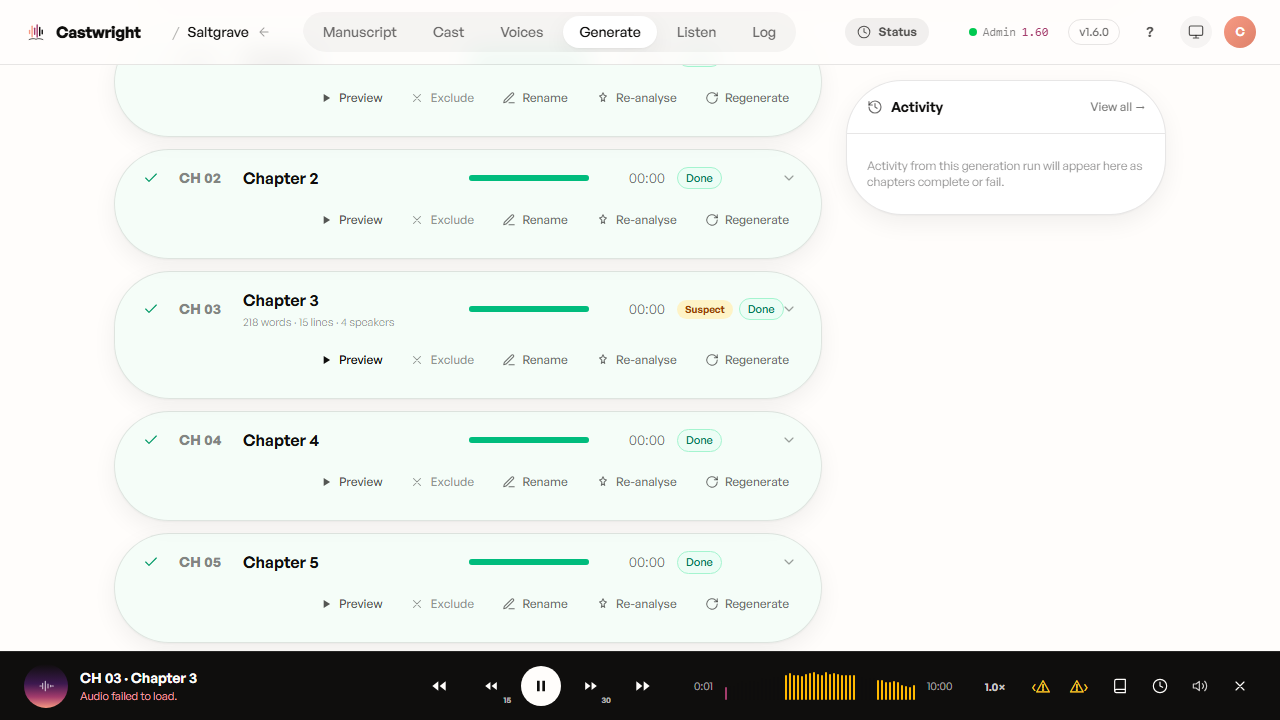
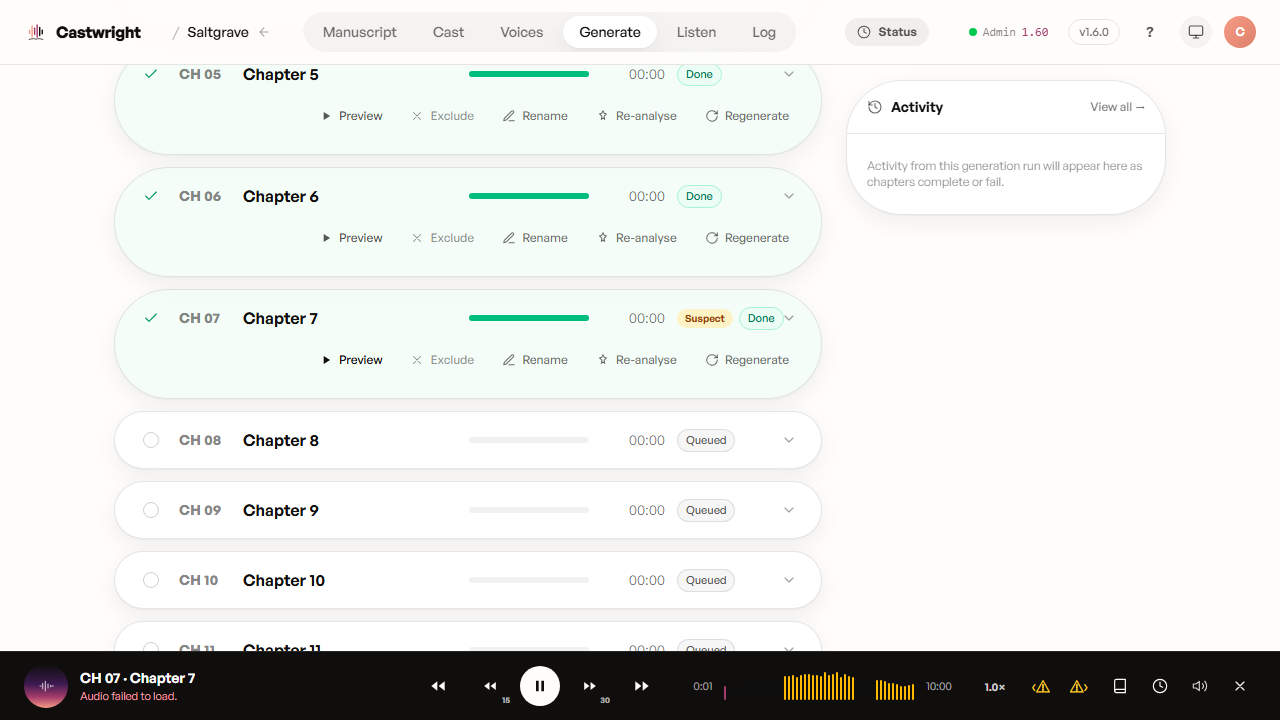
fix(frontend): move Quality Gate Suspect fixture from chapter 3 to 7
Chapter 3 sat above the fold in the pre-existing generating/regenerate-modal
marketing scenes, so its Suspect badge leaked into their unscrolled
screenshots on the next capture:marketing run. Chapter 7 (Saltgrave's last
done chapter) sits below the fold, restoring the "existing scenes
untouched" invariant from the design spec. Re-captured
chapter-suspect/preview-flagged and refreshed the two wiki images.

diff --git a/e2e/marketing/scenes.ts b/e2e/marketing/scenes.ts
@@ -209,7 +209,7 @@ export const SCENES: Scene[] = [
     fullPage: true,
   },
   {
-    /* Quality Gate marketing/wiki screenshot #1286 — Saltgrave chapter 3's
+    /* Quality Gate marketing/wiki screenshot #1286 — Saltgrave chapter 7's
        row expanded, showing the Suspect badge + amber waveform bands + "N
        issues to review" caption. `waitFor` targets the chapter's stable
        `#chapter-<id>` container (chapters-slice.ts/generation.tsx) so the
@@ -221,14 +221,14 @@ export const SCENES: Scene[] = [
     id: 'chapter-suspect',
     hash: '#/books/hollow-tide-2/generate',
     viewports: ['desktop'],
-    waitFor: '#chapter-3',
+    waitFor: '#chapter-7',
     action: async (page) => {
-      await page.locator('#chapter-3').getByRole('button').first().click({ timeout: 5000 });
+      await page.locator('#chapter-7').getByRole('button').first().click({ timeout: 5000 });
       await page.waitForSelector('text=issues to review', { timeout: 5000 });
     },
     /* The segment strip (amber bands + caption) renders at the BOTTOM of the
-       expanded row, below chapter 3's per-speaker breakdown — well below the
-       fold at a fixed viewport since chapters 1+2 sit above it uncollapsed.
+       expanded row, below chapter 7's per-speaker breakdown — well below the
+       fold at a fixed viewport since chapters 1-6 sit above it uncollapsed.
        fullPage captures the whole scrollable page instead of scrolling to a
        single target, so both the row header (with the Suspect badge, up top)
        and the expanded caption/waveform (further down) land in the same
@@ -268,10 +268,10 @@ export const SCENES: Scene[] = [
     id: 'preview-flagged',
     hash: '#/books/hollow-tide-2/generate',
     viewports: ['desktop'],
-    waitFor: '#chapter-3',
+    waitFor: '#chapter-7',
     action: async (page) => {
       await page
-        .locator('#chapter-3')
+        .locator('#chapter-7')
         .getByRole('button', { name: 'Preview' })
         .click({ timeout: 5000 });
       await page.waitForSelector('[data-testid="mini-player-next-issue"]', { timeout: 5000 });

diff --git a/src/lib/api.ts b/src/lib/api.ts
@@ -1658,14 +1658,14 @@ async function mockStreamSplice({
 async function mockGetChapterAudio({ bookId, chapterId, duration }: AudioArgs): Promise<ChapterAudio> {
   await wait(120);
   /* Quality Gate marketing/wiki screenshots (#1286) — force totalSec=600 for
-     Saltgrave chapter 3 regardless of what `duration` the caller passes.
+     Saltgrave chapter 7 regardless of what `duration` the caller passes.
      Saltgrave's chapters carry no `duration` field, so chapters-slice
      hydrates it to '00:00' — and the mini-player's Preview action (unlike
      ChapterSegmentStrip) explicitly forwards `chapter.duration`, which would
      otherwise collapse totalSec to 0 and make deriveIssues return no issues
      at all (its own guard: `!dur || dur <= 0 → return []`), silently
      breaking the preview-flagged scene's amber band. */
-  const isFlaggedDemoChapter = DEMO_CAPTURE && bookId === 'hollow-tide-2' && chapterId === 3;
+  const isFlaggedDemoChapter = DEMO_CAPTURE && bookId === 'hollow-tide-2' && chapterId === 7;
   const totalSec = isFlaggedDemoChapter ? 600 : parseDuration(duration || '10:00');
   const peakCount = 240;
   /* Deterministic per-chapter envelope: seed a tiny LCG from chapterId so each
@@ -1697,7 +1697,7 @@ async function mockGetChapterAudio({ bookId, chapterId, duration }: AudioArgs): 
      For chapter 1 (duration '38:24' = 2304 s): third=768, lateStart=1624,
      seekSec-1=766 (33.2%), seekSec-2=1622 (70.4%). */
   const lateStart = third * 2 + 88;
-  /* Quality Gate marketing/wiki screenshots (#1286) — Saltgrave chapter 3
+  /* Quality Gate marketing/wiki screenshots (#1286) — Saltgrave chapter 7
      gets real cast ids and reason text for the two gate flavors that
      actually share this surface (acoustic + ASR content-QA), reusing this
      function's already-correct non-adjacent spacing rather than reinventing

diff --git a/src/lib/api-demo-capture.test.ts b/src/lib/api-demo-capture.test.ts
@@ -1,13 +1,13 @@
 import { describe, it, expect, vi } from 'vitest';
 
 describe('DEMO_CAPTURE-gated api.ts mocks (#1286 Quality Gate marketing screenshots)', () => {
-  it('mockGetChapterAudio: hollow-tide-2 chapter 3 gets the acoustic+ASR segment override, same timings', async () => {
+  it('mockGetChapterAudio: hollow-tide-2 chapter 7 gets the acoustic+ASR segment override, same timings', async () => {
     vi.resetModules();
     vi.stubEnv('VITE_USE_MOCKS', 'true');
     vi.stubEnv('VITE_DEMO_CAPTURE', '1');
     const { api } = await import('./api');
 
-    const audio = await api.getChapterAudio({ bookId: 'hollow-tide-2', chapterId: 3 });
+    const audio = await api.getChapterAudio({ bookId: 'hollow-tide-2', chapterId: 7 });
     const suspects = audio.segments!.filter((s) => s.suspect);
 
     expect(suspects).toHaveLength(2);
@@ -47,7 +47,7 @@ describe('DEMO_CAPTURE-gated api.ts mocks (#1286 Quality Gate marketing screensh
     vi.stubEnv('VITE_DEMO_CAPTURE', '0');
     const { api } = await import('./api');
 
-    const audio = await api.getChapterAudio({ bookId: 'hollow-tide-2', chapterId: 3 });
+    const audio = await api.getChapterAudio({ bookId: 'hollow-tide-2', chapterId: 7 });
     expect(
       audio.segments!.filter((s) => s.suspect).map((s) => s.characterId),
     ).toEqual(['halloran', 'narrator']);
@@ -65,7 +65,7 @@ describe('DEMO_CAPTURE-gated api.ts mocks (#1286 Quality Gate marketing screensh
     // durationSec to 0 and deriveIssues would find no issues at all.
     const audio = await api.getChapterAudio({
       bookId: 'hollow-tide-2',
-      chapterId: 3,
+      chapterId: 7,
       duration: '00:00',
     });
     expect(audio.durationSec).toBe(600);

diff --git a/src/mocks/marketing/hollow-tide.ts b/src/mocks/marketing/hollow-tide.ts
@@ -220,13 +220,16 @@ const drowningBell = bookState({
 });
 
 /* ── Book 2 — Saltgrave — GENERATING (11 chapters, 7 done) ── */
-/* Quality Gate marketing/wiki screenshots (#1286) — chapter 3 (already `done`,
-   within the first 7 of 11 completedSlugs below) carries the advisory QA
-   verdict the top-level "Suspect" pill checks (chapters-slice.ts:335). Ordered
-   to match the segment override's chronological order added in api.ts (ASR
-   content flag at [200,400), acoustic flag at [488,600)). */
+/* Quality Gate marketing/wiki screenshots (#1286) — chapter 7 (already `done`,
+   the LAST of the first 7 of 11 completedSlugs below — placed there rather
+   than earlier so its row sits below the fold in the two pre-existing
+   `generating`/`regenerate-modal` marketing scenes' default unscrolled
+   viewport) carries the advisory QA verdict the top-level "Suspect" pill
+   checks (chapters-slice.ts:335). Ordered to match the segment override's
+   chronological order added in api.ts (ASR content flag at [200,400),
+   acoustic flag at [488,600)). */
 const BOOK2_CHAPTERS = makeChapters(11).map((c) =>
-  c.id === 3
+  c.id === 7
     ? {
         ...c,
         audioQa: {
